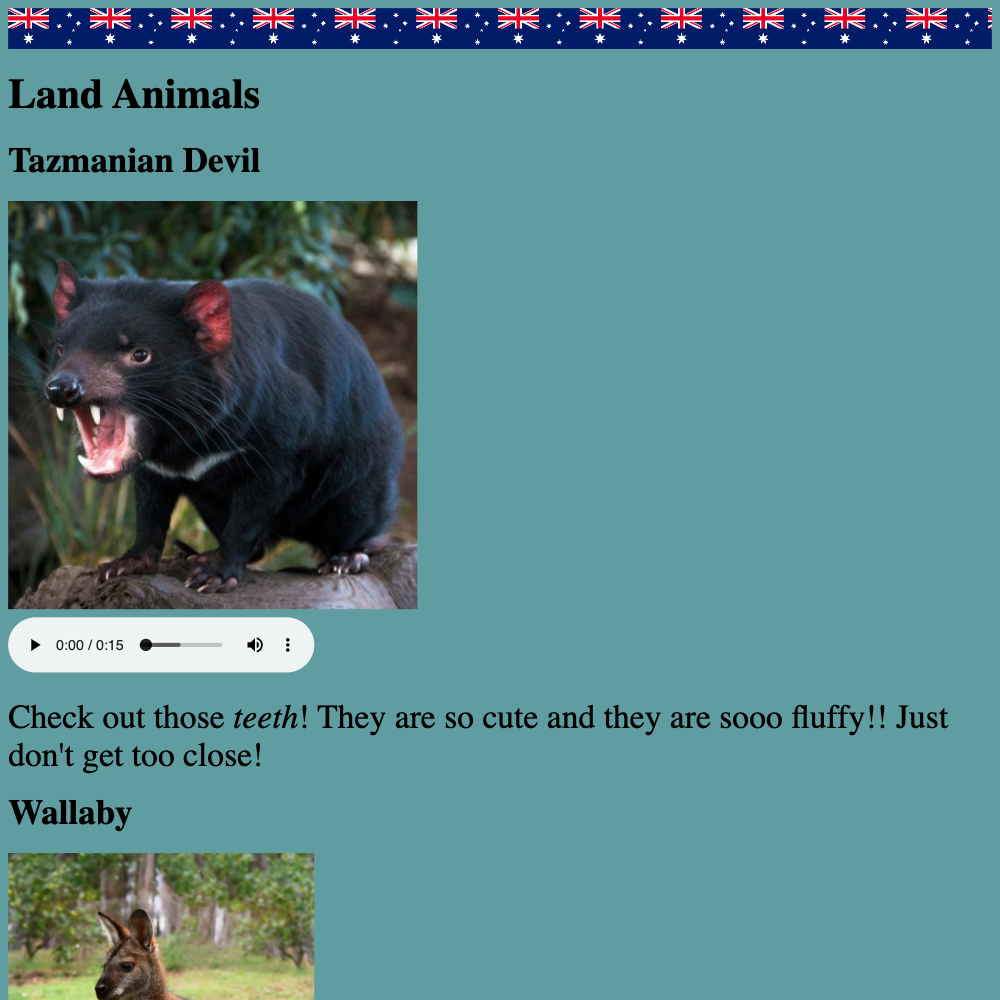
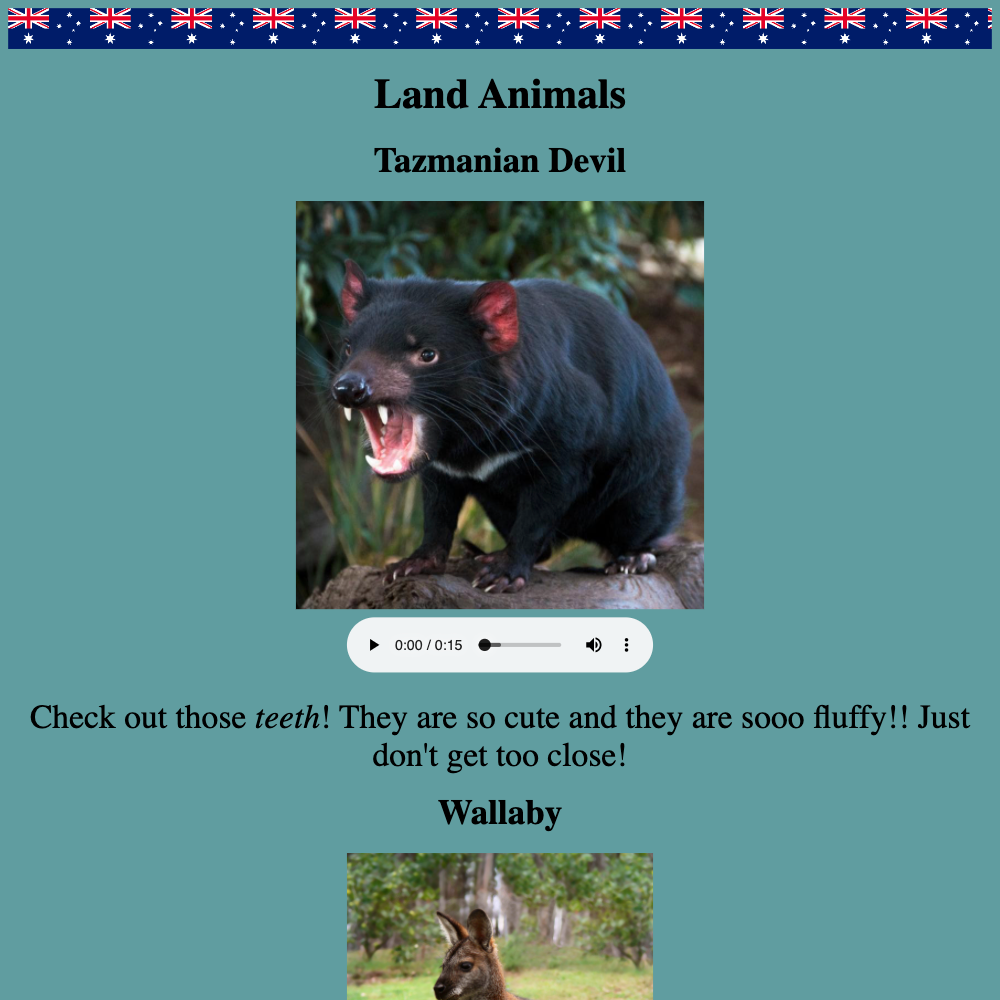
Added Some More Projects!

diff --git a/showcase-pages/salmon/style.css b/showcase-pages/salmon/style.css
@@ -1,33 +1,37 @@
-.home{
-  background-color: #FFEBCD;
+.home {
+  background-color: #ffebcd;
   background-image: url("if you want one");
 }
 
-.header{
-  
+.header {
 }
 
-.desc{
+.desc {
   color: color of text;
   text-align: how you want to align text;
 }
 
-.img{
+.img {
   text-align: center;
-  height:  300px;
+  height: 300px;
   width: 320px;
 }
 
-td, th {
+td,
+th {
   border: 1px solid #dddddd;
   text-align: left;
   padding: 8px;
 }
 
-.lineheader{
[1 lines of base64/hex data omitted]
-    width: 100%;
-    height: 40px;
-    background-repeat: repeat-x;
-    background-size: contain;
+.lineheader {
[1 lines of base64/hex data omitted]
+  width: 100%;
+  height: 40px;
+  background-repeat: repeat-x;
+  background-size: contain;
 }
+
+/* body {
+  text-align: center;
+} */

diff --git a/showcase-pages/dogs/index.html b/showcase-pages/dogs/index.html
@@ -1,0 +1,34 @@
+<!DOCTYPE html>
+<html>
+  <head>
+    <title>ADD TITLE HERE</title>
+    <link type="text/css" rel="stylesheet" href="style.css" />
+  </head>
+  <!-- Start your code here -->
+  <body class="home">
+    <div class="header">
+      <h1>Dogs Are Love</h1>
+      <h3>
+        I like Dogs because they can play with you and they will love you no
+        matter what :)
+      </h3>
+    </div>
+    <p class="desc">
+      This is how my dog was, Obviosly this is not my dog but my dog was like
+      this
+    </p>
+    <div class="img">
+      <img
[1 lines of base64/hex data omitted]
+      />
+    </div>
+    <p>
+      I really like this dog because is cute but I like all types of Dogs. I
+      like dogs because they are really cute, anyways I never been with cats so
+      I don't know how is like to have one.
+    </p>
+    <a href="link to redirect to"> hyperlinked text! </a>
+    <!-- End your code here -->
+    <script type="text/javascript" src="js/script.js"></script>
+  </body>
+</html>

diff --git a/showcase-pages/joestar/index.html b/showcase-pages/joestar/index.html
@@ -31,7 +31,17 @@
   </div>    
   <p><h4> Jotaro is a delinquent teenager who lives an ordinary life until the Joestar Family's old enemy, DIO, returns after is fake death on the boat explosion using Jonathan's body, and granting the whole Joestar family a Stand. Jotaro and his stand Star Platinum travels to Egypt in order to save his mother from her own stand that she can't handle by killing Dio.
 </h4>
-    
+      <p><h2> 4. Josuke Higashikata
+  <div class="img">
+	<img src="https://static.wikia.nocookie.net/jjba/images/2/24/JosukeAnime.PNG/revision/latest/scale-to-width-down/270?cb=20171212081940"/>
+  </div>    
+  <p><h4> Josuke is a high schooler, residing in the town of Morioh. He soon meets Jotaro Kujo, who informs him that he is Joseph Joestar's illegitimate son. After his grandfather dies, Josuke takes it upon himself to protect his beloved town from malevolent Stand users. Josuke wields Crazy Diamond, a powerful Stand with the power to repair almost anything.
+</h4> <p><h2> 4. Giorno Giovanna
+  <div class="img">
+	<img src="https://static.wikia.nocookie.net/jjba/images/1/19/Giorno_Giovanna_Anime.png/revision/latest/scale-to-width-down/305?cb=20200310175513"/>
+  </div>    
+  <p><h4> Giorno is the illegitimate son of DIO, conceived with Jonathan Joestar's stolen body. He is introduced as Haruno Shiobana.Then as he starts noticing his stand Golden Experience that has the power to give life to anything. He speaks of his intention to join the powerful gang Passione and his dream of becoming a "Gang-Star". And stop drug selling to young children, To do that he needs tp get rid of the Boss of the gang.
+</h4>
 <!-- End your code here -->
 <script type="text/javascript" src="js/script.js"></script>
 </body>

diff --git a/showcase-pages/australian/style.css b/showcase-pages/australian/style.css
@@ -1,24 +1,22 @@
-.home{
-  background-color: #5F9EA0;
+.home {
+  background-color: #5f9ea0;
 }
 
-.header{
-  
-  
+.header {
 }
 
-.desc{
-  color: #FFFF00;
+.desc {
+  color: #ffff00;
   text-align: how you want to align text;
 }
 
-.img{
+.img {
   text-align: where you want to align the image;
-  height:  the height you want;
-  width:  the width you want;
+  height: the height you want;
+  width: the width you want;
 }
 
-.lineheader{
+.lineheader {
   background-repeat: repeat-x;
   height: 40px;
   width: 100%;
@@ -26,6 +24,10 @@
   background-size: contain;
 }
 
-.flagimage{
+.flagimage {
   width: 10%;
+}
+
+body {
+  text-align: center;
 }

diff --git a/showcase-pages/dogs/style.css b/showcase-pages/dogs/style.css
@@ -1,0 +1,19 @@
+.home{
+  background-color: #FFC0CB;
+  background-image: url("");text-align: center
+}
+
+.header{
+  style your header!!
+}
+
+.desc{
+  color: #0000FF;
+  text-align: how you want to align text;
+}
+
+.img{
+  text-align: where you want to align the image;
+  height:  the height you want;
+  width:  the width you want;
+}

diff --git a/mapping.js b/mapping.js
@@ -27,7 +27,11 @@ function createListOfProjects() {
     },
     {
       path: "joestar",
-      name: "The Joestar Family (part 1-3)",
+      name: "The Joestar Family (part 1-5)",
+    },
+    {
+      path: "dogs",
+      name: "Dogs Are Love",
     },
   ];
   let list = "";

diff --git a/showcase-pages/salmon/index.html b/showcase-pages/salmon/index.html
@@ -9,7 +9,7 @@
   <div class = lineheader>
   </div>
   <script type="text/javascript" src="js/script.js"></script>
-</body>
+
   <div class="header">
   	<h1> All About Sushi </h1>
   	<h3> Everyone's Favorite Food </h3>

diff --git a/showcase-pages/joestar/style.css b/showcase-pages/joestar/style.css
@@ -4,3 +4,4 @@ background-image: url("https://c4.wallpaperflare.com/wallpaper/723/668/835/jojos
 .desc{
   text-align: center;}
 body{color: #FFFFFF;}
+body{text-align: center;}
